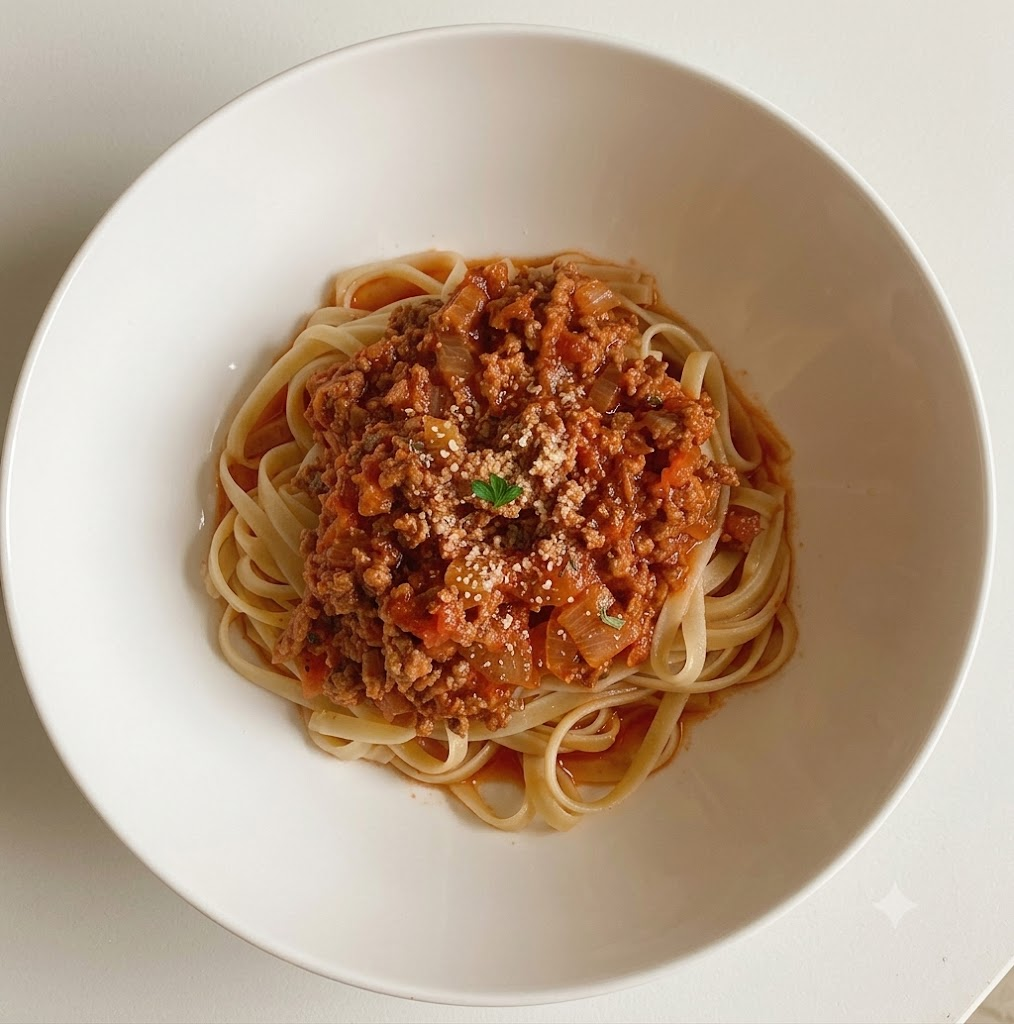
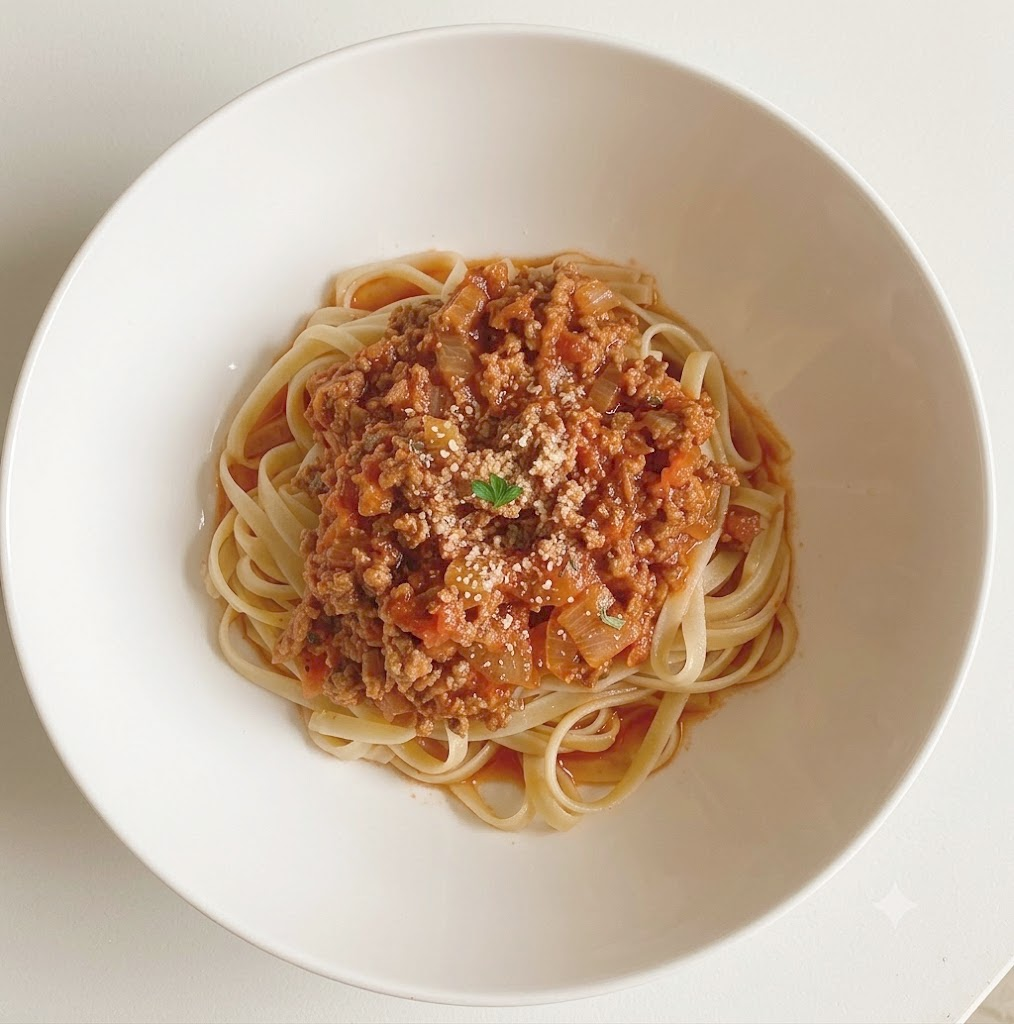
add photos and further imp

diff --git a/recipes/chicken-tikka.html b/recipes/chicken-tikka.html
@@ -1,4 +1,4 @@
-<!DOCTYPE html>
+rov<!DOCTYPE html>
 <html lang="en">
 <head>
 <meta charset="UTF-8">

diff --git a/recipes/drunken-noodles.html b/recipes/drunken-noodles.html
@@ -1,4 +1,4 @@
-<!DOCTYPE html>
+o githu<!DOCTYPE html>
 <html lang="en">
 <head>
 <meta charset="UTF-8">